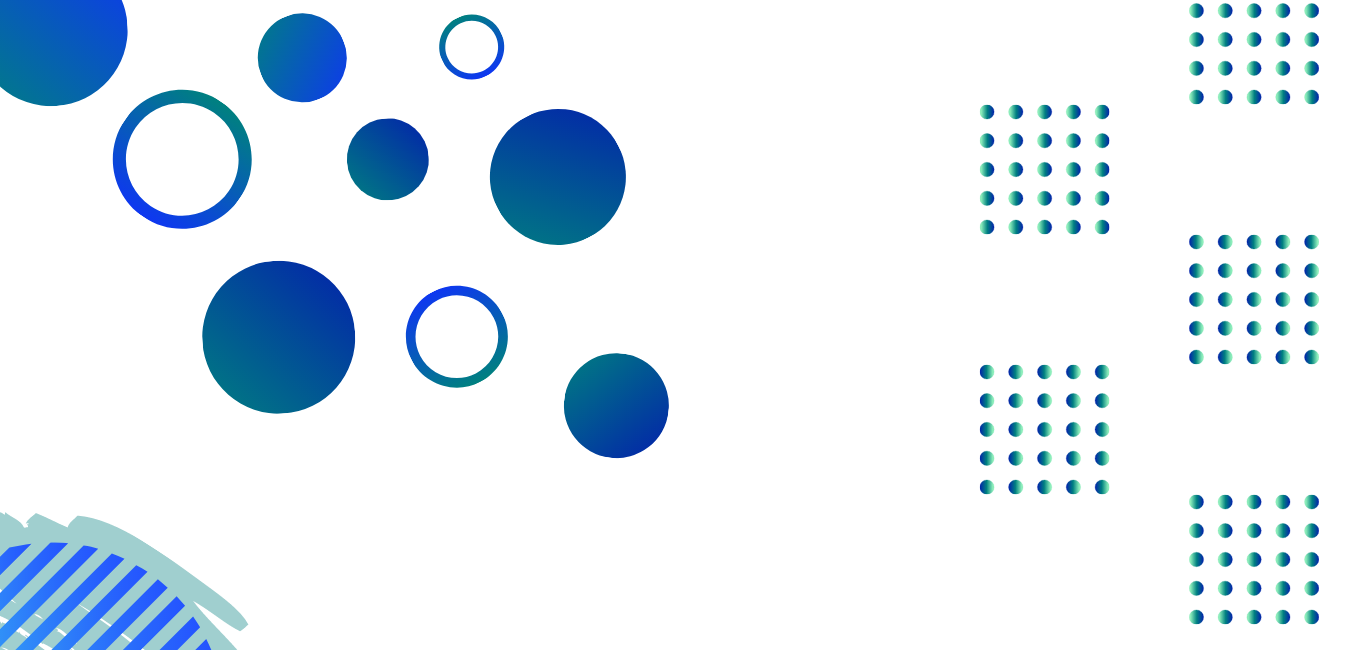
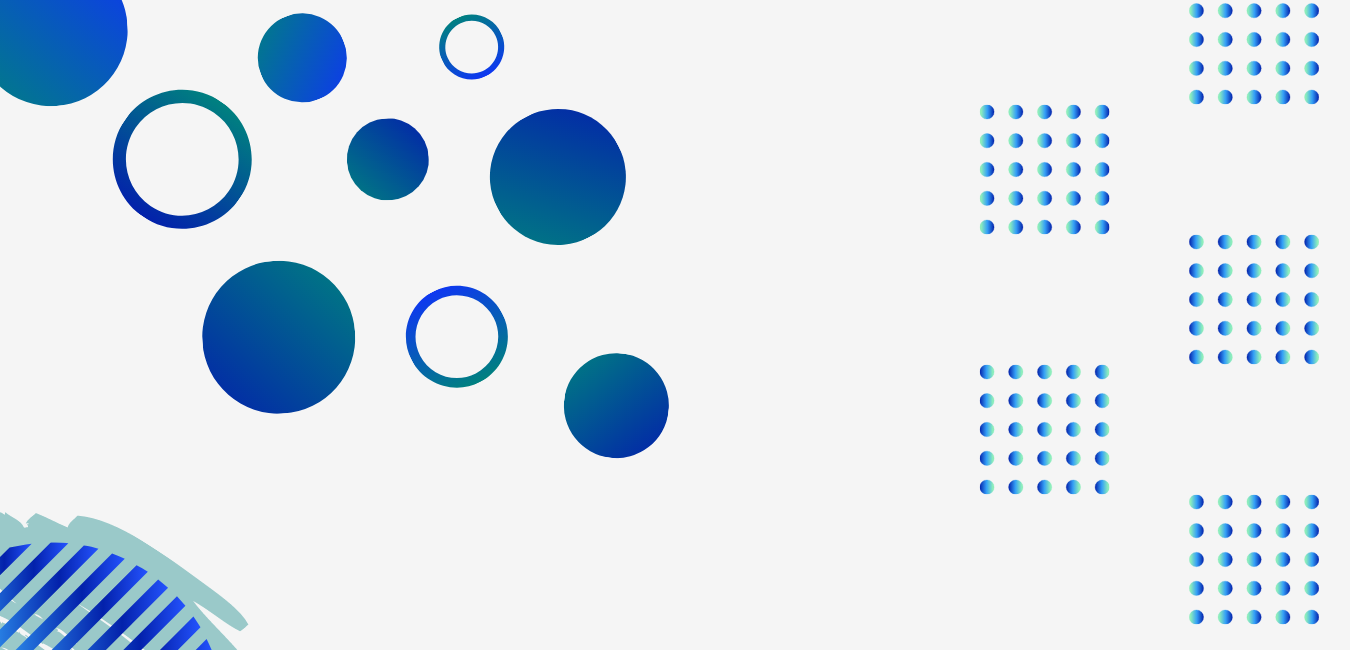
bg de create y login

diff --git a/src/views/user-login.vue b/src/views/user-login.vue
@@ -1,17 +1,19 @@
 <template>
-    <div class="divContainer">
-        <div class="login py-1">
+    <div id="app" class="mt-1">
+        <div class="empty">
+        </div>
+        <div class="login">
         <form class="lg-inside mx-auto">
             <h1>Log-In</h1>
             <div class="input-group mb-3">
             <div class="input-group-prepend">
-                <span class="input-group-text" id="basic-addon3">Email</span>
+                <span class="input-group-text" id="basic-addon3">Correo</span>
             </div>
             <input type="text" class="form-control" id="basic-url" aria-describedby="basic-addon3" v-model="email">
             </div>
             <div class="input-group mb-3">
             <div class="input-group-prepend">
-                <span class="input-group-text" id="passtext">password</span>
+                <span class="input-group-text" id="passtext">Contraseña</span>
             </div>
             <input type="password" name="password" id="password" aria-describedby="passtext" v-model="password">
             </div>
@@ -20,6 +22,7 @@
         </form>
         </div>
     </div>
+
 </template>
 
 <script>
@@ -46,25 +49,49 @@ export default {
 </script>
 
 <style lang="scss" scoped>
-.divContainer{
-    margin-top: 10vw;
+
+#app{
+  background-image: url('../assets/background-web-5.png');
+  background-attachment: fixed;
+  background-size: cover;
+  background-position: center;
+  background-repeat: no-repeat;
+  overflow: hidden;
 }
+
+.empty{
+    height: 20vh;
+    width: 100vw;
+}
+
 .login{
+    
     background-color: #ffffff;
     box-shadow: 1px 5px 5px #bbbbbb50;
     max-width: 600px;
     width: 80vw;
-    margin: 0 auto;
     border-radius: 2em;
-
+    margin: 0 auto;
     .lg-inside{
         max-width: 500px;
         width: 70vw;
-        
+        padding: 1em 0;
     }
 
     #password{
-        width:30vw;
+        width:25vw;
     }
+}
+
+@media (orientation: portrait) {
+
+  #app{
+  background-image: url('../assets/background-phone-5.png');
+  background-attachment: fixed;
+  
+  background-size: cover;
+  background-position: center;
+  background-repeat: no-repeat;
+}
 }
 </style>

diff --git a/src/views/blog-create.vue b/src/views/blog-create.vue
@@ -1,5 +1,5 @@
 <template>
-  <div class="blogCreate mt-4">
+  <div class="blogCreate" id="app">
     <div class="createCont mt-4">
       <!-- Make Post         -->
       <div class="makePost col-7" v-if="this.Pshown!=true">
@@ -181,6 +181,29 @@ export default {
   margin: 0 auto;
   max-width: 20vw;
 }
+
+#app{
+  background-image: url('../assets/background-web-4.png');
+  background-attachment: fixed;
+  
+  background-size: cover;
+  background-position: center;
+  background-repeat: no-repeat;
+  
+}
+
+@media (orientation:portrait) {
+  #app{
+  background-image: url('../assets/background-portrait-4.png');
+  background-attachment: fixed;
+  
+  background-size: cover;
+  background-position: center;
+  background-repeat: no-repeat;
+  
+}
+}
+
 @media (max-width: 550px) {
   .createCont {
     display: flex;

diff --git a/src/views/blog-details.vue b/src/views/blog-details.vue
@@ -1,5 +1,5 @@
 <template>
-  <div id="app">
+  <div id="app" class="mt-1">
     <div class="container text-left btnCont pt-3 mb-2">
       <button
         type="button"
@@ -134,6 +134,7 @@ export default {
 #app{
   background-image: url('../assets/background-web-2.png');
   background-attachment: fixed;
+  width: 100vw;
   
   background-size: cover;
   background-position: center;
@@ -190,18 +191,8 @@ export default {
   }
 }
 
-@media (max-width: 768px){
-#app{
-  width:100vw;
-  background-image: url('../assets/background-tablet-2.png');
-  background-attachment: fixed;
-  
-  background-size: cover;
-  background-position: center;
-  background-repeat: no-repeat;
-}
-}
-@media (max-width: 400px) {
+
+@media (orientation: portrait) {
 
   #app{
   background-image: url('../assets/background-phone-2.png');

diff --git a/src/views/blog-grid.vue b/src/views/blog-grid.vue
@@ -134,7 +134,7 @@ export default {
   background-size: cover;
   background-position: center;
   background-repeat: no-repeat;
-  width: 100vw;
+  
 }
 
 @media (max-width: 768px){
